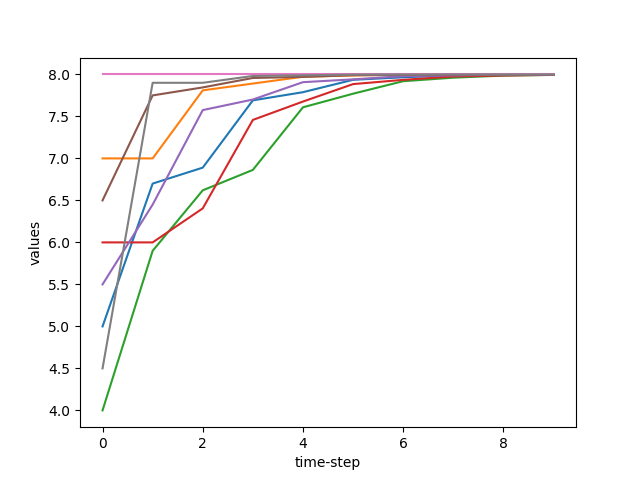
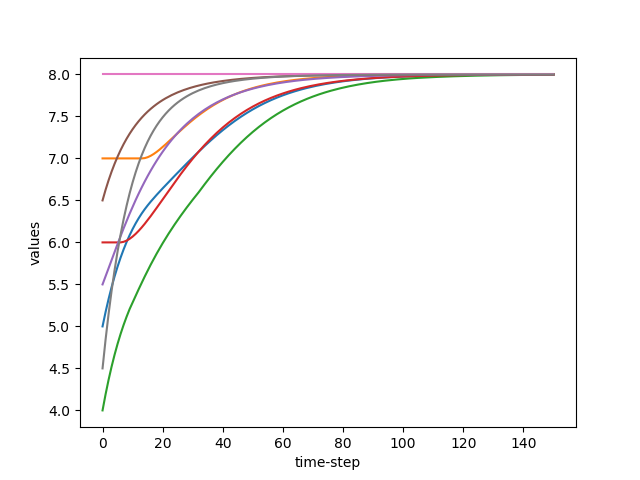
添加week2内容

diff --git a/week_2/code/maximum_linear_consensus.py b/week_2/code/maximum_linear_consensus.py
@@ -5,7 +5,7 @@ from scipy.interpolate import spline
 
 
 def maximum_linear_consensus(graph):
-    sigma = 0.1
+    sigma = 0.01
     a = 0.0
     k = 0
 
@@ -16,7 +16,7 @@ def maximum_linear_consensus(graph):
     matrix = np.column_stack(([0 for _ in range(matrix.shape[0])], matrix))
 
     print(matrix)
-    for time_step in range(9):
+    for time_step in range(150):
         for i in range(1, len(graph.nodes()) + 1):
             neighbors = graph.neighbors(i)
 
@@ -45,7 +45,7 @@ def maximum_linear_consensus(graph):
             part_two = sigma * part_two
 
             # result
-            result = graph.node[i]['value'][time_step] + a * (part_one + part_two)
+            result = graph.node[i]['value'][time_step] + 0.1 * a * (part_one + part_two)
             graph.node[i]['value'].append(result)
 
     for i in graph.nodes():
@@ -53,10 +53,10 @@ def maximum_linear_consensus(graph):
 
     plt.xlabel("time-step")
     plt.ylabel("values")
-    x_axis = range(10)
+    x_axis = range(151)
     for i in graph.nodes():
         plt.plot(x_axis, graph.node[i]['value'])
-    plt.savefig('./pngs/maximum_linear_consensus_1.png')
+    plt.savefig('./pngs/maximum_linear_consensus_2.png')
     plt.show()
 
 
